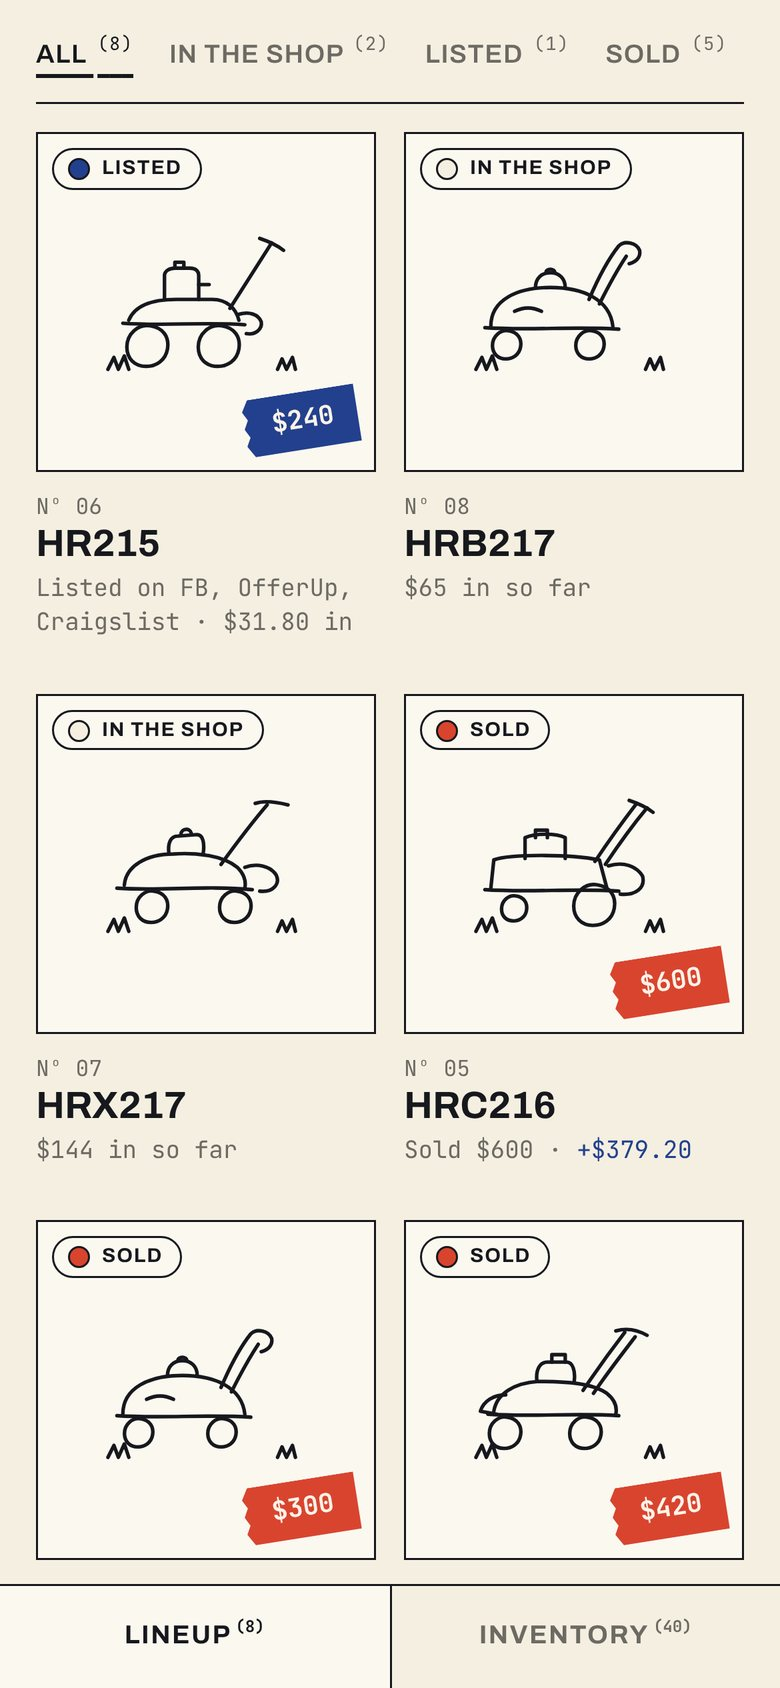
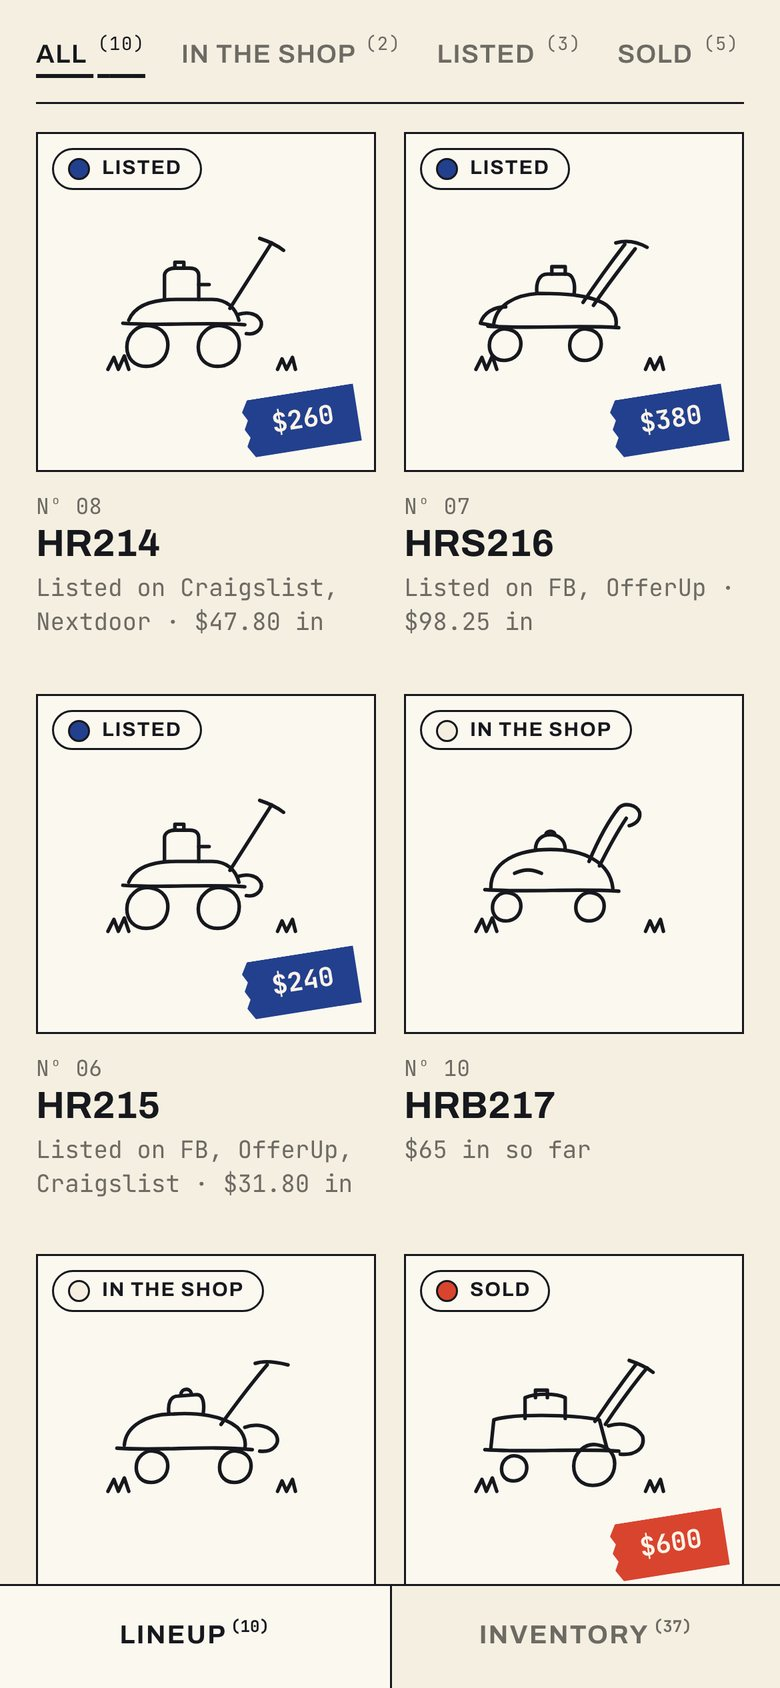
Mower Ledger screenshots: demo with 5 in stock
Claude-Session: https://claude.ai/code/session_015WQEqQiMFvincPxCz7zSVQ

diff --git a/mower.html b/mower.html
@@ -57,9 +57,9 @@
     <p class="textlinks"><a href="https://mower-ledger.vercel.app/demo" target="_blank" rel="noopener">Try the demo, with sample mowers</a></p>
 
     <div class="shots">
-      <figure><img src="img/mower-lineup.jpg?v=2" alt="The home screen, titled The Lineup: total profit of $1,521.50 across 5 sales, 3 mowers in inventory with $240.80 tied up, and a red ticker of recent sales." loading="lazy"><figcaption>The lineup: profit first</figcaption></figure>
-      <figure><img src="img/mower-sold.jpg?v=2" alt="A sold mower's page: a line-drawn mower with a red $600 price-gun sticker, model HRC216, a red SOLD band dated Oct 25, and the start of its profit breakdown." loading="lazy"><figcaption>Every mower is a spec sheet</figcaption></figure>
-      <figure><img src="img/mower-inventory.jpg?v=2" alt="The Inventory page, framed by line-drawn tools on a pegboard: $211.70 on hand, and air filters at $4.25 a piece with 18 on hand and 2 used." loading="lazy"><figcaption>Inventory, costed per piece</figcaption></figure>
+      <figure><img src="img/mower-lineup.jpg?v=3" alt="The home screen, titled The Lineup: total profit of $1,521.50 across 5 sales, 5 mowers in inventory (3 listed, 2 in the shop) with $386.85 tied up, and a red ticker of recent sales." loading="lazy"><figcaption>The lineup: profit first</figcaption></figure>
+      <figure><img src="img/mower-sold.jpg?v=3" alt="A sold mower's page: a line-drawn mower with a red $600 price-gun sticker, model HRC216, a red SOLD band dated Oct 25, and the start of its profit breakdown." loading="lazy"><figcaption>Every mower is a spec sheet</figcaption></figure>
+      <figure><img src="img/mower-inventory.jpg?v=3" alt="The Inventory page, framed by line-drawn tools on a pegboard: $179.65 on hand, and air filters at $4.25 a piece." loading="lazy"><figcaption>Inventory, costed per piece</figcaption></figure>
     </div>
 
     <hr class="rule">
@@ -102,9 +102,9 @@
     </div>
 
     <div class="shots">
-      <figure><img src="img/mower-part-prompt.jpg?v=2" alt="The Log work sheet for New air filter, asking where the part came from: from inventory, bought for this job, or had it already. Air filter from inventory is selected, 18 on hand at $4.25." loading="lazy"><figcaption>A part job asks where the part came from</figcaption></figure>
-      <figure><img src="img/mower-worklog.jpg?v=2" alt="A mower's status set to sold, its listing sites, condition at purchase, and a work log where each job shows its cost: wheels $48, oil change $7, spark plug $3.80." loading="lazy"><figcaption>The work log carries its own costs</figcaption></figure>
-      <figure><img src="img/mower-books.jpg?v=2" alt="Records on a pale blue band, biggest profit and best return of 411%, then The Books: sales $2,130, mowers bought, inventory bought, other expenses, net cash +$1,069 and still holding $452.50." loading="lazy"><figcaption>Records and the books</figcaption></figure>
+      <figure><img src="img/mower-part-prompt.jpg?v=3" alt="The Log work sheet for New air filter, asking where the part came from: from inventory, bought for this job, or had it already. Air filter from inventory is selected, 18 on hand at $4.25." loading="lazy"><figcaption>A part job asks where the part came from</figcaption></figure>
+      <figure><img src="img/mower-worklog.jpg?v=3" alt="A mower's status set to sold, its listing sites, condition at purchase, and a work log where each job shows its cost: wheels $48, oil change $7, spark plug $3.80." loading="lazy"><figcaption>The work log carries its own costs</figcaption></figure>
+      <figure><img src="img/mower-books.jpg?v=3" alt="Records on a pale blue band, biggest profit and best return of 411%, then The Books: sales $2,130, mowers bought, inventory bought, other expenses, net cash +$955 and still holding $566.50." loading="lazy"><figcaption>Records and the books</figcaption></figure>
     </div>
 
     <hr class="rule">
@@ -141,8 +141,8 @@
     </ul>
 
     <div class="shots">
-      <figure><img src="img/mower-gallery.jpg?v=2" alt="The gallery: line-drawn mowers in square frames with status tags and blue and red price stickers, labelled by model number." loading="lazy"><figcaption>The gallery</figcaption></figure>
-      <figure><img src="img/mower-sold-moment.jpg?v=2" alt="The sold moment: a red price-gun sticker reading SOLD $240 with the profit, red, white and blue paper falling, and the doodle mower driving across the screen." loading="lazy"><figcaption>The sold moment</figcaption></figure>
+      <figure><img src="img/mower-gallery.jpg?v=3" alt="The gallery: line-drawn mowers in square frames with status tags and blue and red price stickers, labelled by model number." loading="lazy"><figcaption>The gallery</figcaption></figure>
+      <figure><img src="img/mower-sold-moment.jpg?v=3" alt="The sold moment: a red price-gun sticker reading SOLD $240 with the profit, red, white and blue paper falling, and the doodle mower driving across the screen." loading="lazy"><figcaption>The sold moment</figcaption></figure>
     </div>
 
     <hr class="rule">
